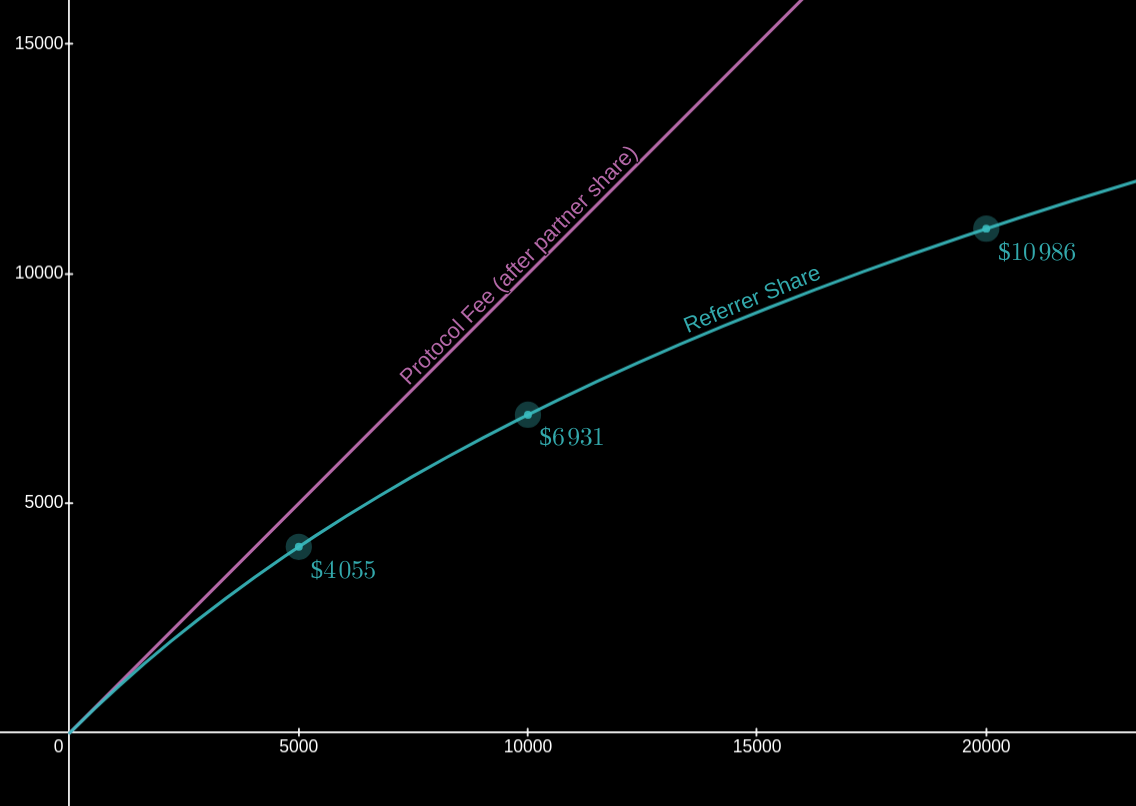
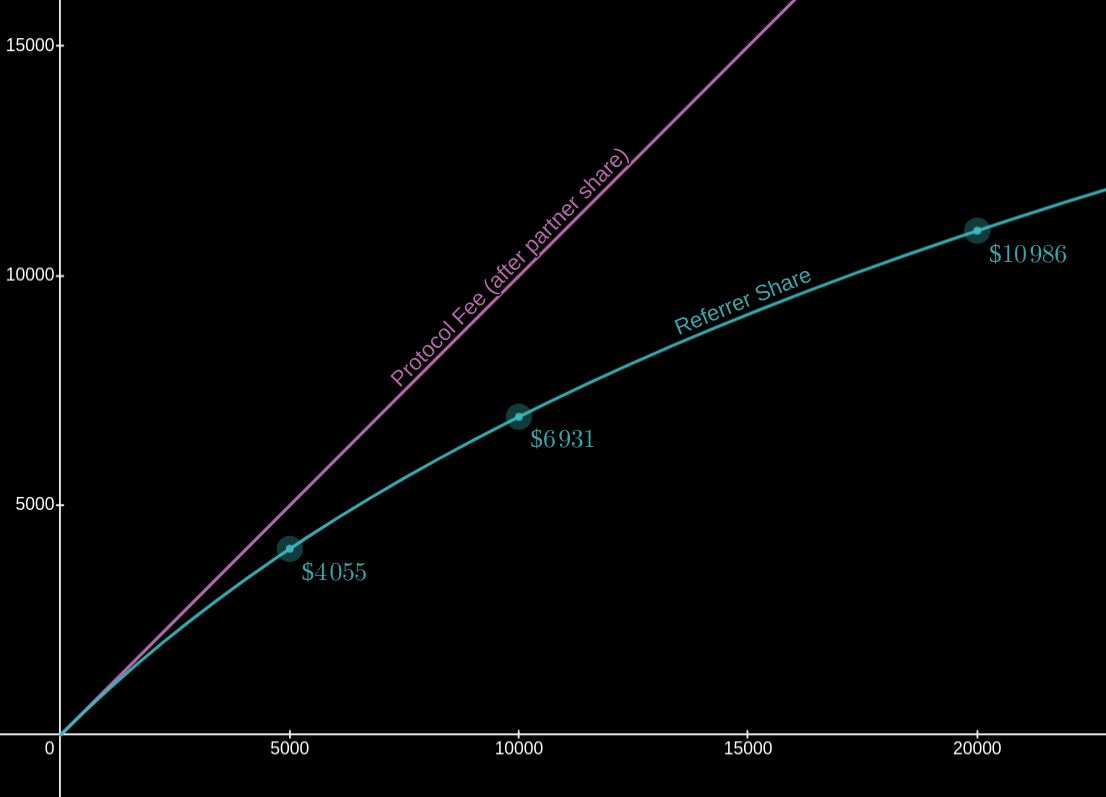
GITBOOK-227: change request with no subject merged in GitBook

diff --git a/why/README.md b/why/README.md
@@ -1,9 +1,9 @@
-# Why Derivable?
+# Why Derion?
 
-At the end of the day, what matters the most to Derivable is the experience of our users. At Derivable, we put user experience at the utmost importance and focus only on the benefits our users receive whilst using our product. We believe that Derivable provides some of the best features and benefits our users cannot find elsewhere.
+At the end of the day, what matters the most to Derion is the experience of our users. At Derion, we put user experience at the utmost importance and focus only on the benefits our users receive whilst using our product. We believe that Derion provides some of the best features and benefits our users cannot find elsewhere.
 
-Derivable offers various exclusive benefits for traders as a perpetual AMM DEX: no liquidation, higher upside with less downside, infinite liquidity, low fees, highly secure, and a fully on-chain open market. Trading perpetuals on Derivable should feel simple yet powerful.
+Derion offers various exclusive benefits for traders as a perpetual AMM DEX: no liquidation, higher upside with less downside, infinite liquidity, low fees, highly secure, and a fully on-chain open market. Trading perpetuals on Derion should feel simple yet powerful.
 
-For liquidity providers, Derivable guarantees a more attractive yield than any other protocol. Our market is optimally capital-efficient, allowing liquidity providers to earn the highest passive income while requiring minimal risk and capital.
+For liquidity providers, Derion guarantees a more attractive yield than any other protocol. Our market is optimally capital-efficient, allowing liquidity providers to earn the highest passive income while requiring minimal risk and capital.
 
-We also welcome other complicated market participants, such as market makers, capital ventures, or hedge funds, to participate in our product. It is our confident belief that our innovative technologies, as well as strategies, have myriads of use cases to be explored. Derivable is always excited to work on new, creative ideas that can be forged into practical applications and solutions; therefore, retail users are not our only target audience but also institution-grade funds.
+We also welcome other complicated market participants, such as market makers, capital ventures, or hedge funds, to participate in our product. It is our confident belief that our innovative technologies, as well as strategies, have myriads of use cases to be explored. Derion is always excited to work on new, creative ideas that can be forged into practical applications and solutions; therefore, retail users are not our only target audience but also institution-grade funds.

diff --git a/intro/leverage.md b/intro/leverage.md
@@ -2,7 +2,7 @@
 
 Leverage is one of the most useful tools in finance, especially in derivatives trading. When used wisely, leverage can enhance profitability, accelerate wealth growth, maximize opportunities, and optimize capital allocation. However, it is a double-edged sword that is incredibly hard to control. This is mainly because leverage traders are exposed to “liquidation risks”.
 
-<figure><img src="../.gitbook/assets/image (58).png" alt="" width="563"><figcaption><p>Linear Leverage</p></figcaption></figure>
+<figure><img src="../.gitbook/assets/image.png" alt="" width="563"><figcaption><p>Linear Leverage and Liquidation</p></figcaption></figure>
 
 Compared to holding $10 of ETH, borrowing $20 and opening a $30 Long 3x position will have 3 times more exposure to the ETH price but also to the liquidation risk. As the ETH price decreases, the balance decreases 3 times faster toward $0 while the loan is still $20, increasing the debt-to-balance rate to infinity, which is when the liquidation happens.
 

diff --git a/why/game-theory.md b/why/game-theory.md
@@ -2,5 +2,5 @@
 
 <mark style="color:yellow;">(Under Construction)</mark>
 
-According to our analytics, Derivable's compounding leverage model offers a true zero-summed game between traders and LPs, while the conventional linear leverage position model is actually unfair to traders. In the service provider role, the LPs should expect to benefit more to compensate for their capital risks; with a fairer game, the fee and interest calculation is much more deterministic and predictable.
+According to our analytics, Derion's compounding leverage model offers a true zero-summed game between traders and LPs, while the conventional linear leverage position model is actually unfair to traders. In the service provider role, the LPs should expect to benefit more to compensate for their capital risks; with a fairer game, the fee and interest calculation is much more deterministic and predictable.
 

diff --git a/why/liquidity-efficiency.md b/why/liquidity-efficiency.md
@@ -2,7 +2,7 @@
 
 <mark style="color:yellow;">(Under Construction)</mark>
 
-In conventional perpetual DEXes with server-based ADL mechanisms, the liquidity-to-position rate often has to be highly abundant to protect the exchange from unpredictable market volatility. With smooth deleveraging curves built into the payoff function, Derivable provides a much safer and more efficient liquidity provision environment.
+In conventional perpetual DEXes with server-based ADL mechanisms, the liquidity-to-position rate often has to be highly abundant to protect the exchange from unpredictable market volatility. With smooth deleveraging curves built into the payoff function, Derion provides a much safer and more efficient liquidity provision environment.
 
 <figure><img src="../.gitbook/assets/image (50).png" alt="" width="563"><figcaption></figcaption></figure>
 

diff --git a/protocol/oracle.md b/protocol/oracle.md
@@ -6,6 +6,6 @@ Uniswap v3 Oracle is chosen for its availability and composability. Any token pa
 
 Uniswap Oracle provides both TWAP and SPOT prices. Derivable's double price system is another novel mechanism for derivative pricing as the price prediction is crucial and any market latency can be exploited.
 
-<figure><img src="../.gitbook/assets/image (1) (1) (1).png" alt=""><figcaption><p>Double Price System</p></figcaption></figure>
+<figure><img src="../.gitbook/assets/image (1) (1) (1) (1).png" alt=""><figcaption><p>Double Price System</p></figcaption></figure>
 
 The double price system enforces the conversion rate to use the less beneficial result of the 2 prices. This system serves 2 purposes: (A) preventing price manipulation by arbitrageurs and (B) taking volatility fees for the Liquidity Provider in their unfavorable market.

diff --git a/protocol/features.md b/protocol/features.md
@@ -1,6 +1,6 @@
 # Features
 
-After recognizing the existing pain points that Derivatives DEXes are currently having, Derivable has developed multiple innovative technologies in an attempt to tackle those shortcomings.
+After recognizing the existing pain points that Derivatives DEXes are currently having, Derion has developed multiple innovative technologies in an attempt to tackle those shortcomings.
 
 * Power (compounding) Leverage instead of Linear Leverage: More potential upside with less downside, no liquidation risk.
 * Asymptotic Power Curve as Pricing Curve (see below): Enable infinite liquidity with no liquidation. Congested liquidation events are eliminated because there simply won’t be any liquidation!

diff --git a/tokenomics/launchpad.md b/tokenomics/launchpad.md
@@ -1,8 +1,8 @@
-# Launchpad
+# Launchpad Partnership
 
 The first partnership we are seeking is with Launchpads to integrate with [ifo.md](../apps/ifo.md "mention"). Our launchpad partners will directly receive a majority of our protocol fee. Anyone who contributes to a successful partnership will receive a Referrer Share from the protocol fee, after deducting the partner's share.
 
-<figure><img src="../.gitbook/assets/image.png" alt=""><figcaption></figcaption></figure>
+<figure><img src="../.gitbook/assets/image (1).png" alt=""><figcaption></figcaption></figure>
 
 Referrer share calculation from pool fee, after deducting the partner's share (for reference only):
 

diff --git a/protocol/README.md b/protocol/README.md
@@ -1,8 +1,8 @@
-# Protocol
+# Protocol Design
 
-Derivable Protocol is a set of smart contracts designed for the creation of leverage perpetual pools for any index value, with any leverage, and reserved with any ERC-20 token.
+Derion Protocol is a set of smart contracts designed for the creation of leverage perpetual pools for any index value, with any leverage, and reserved with any ERC-20 token.
 
-Derivable pools have the following properties:
+Derion pools have the following properties:
 
 * 3 sides: LONG, SHORT, and LIQUIDITY (LP) as 3 fungible tokens.
 * LONG and SHORT trace an index value from an external oracle (on-chain or off-chain).

diff --git a/protocol/pricing.md b/protocol/pricing.md
@@ -6,7 +6,7 @@ description: Asymptotic Power Curves
 
 <figure><img src="../.gitbook/assets/image (13).png" alt="" width="563"><figcaption></figcaption></figure>
 
-Asymptotic Power Curves is our innovative Pricing Curve design that makes the vision of Derivable feasible in the first place. Thanks to the Asymptotic Power Curves, Derivable is able to achieve:
+Asymptotic Power Curves is our innovative Pricing Curve design that makes the vision of Derion feasible in the first place. Thanks to the Asymptotic Power Curves, Derion is able to achieve:
 
 * NO liquidation at all;
 * Everlasting perpetual future market for all market circumstances;

diff --git a/SUMMARY.md b/SUMMARY.md
@@ -9,7 +9,7 @@
   * [Trader Risks](existing-challenges/trader-risks.md)
   * [Exchange Risks](existing-challenges/exchange-risks.md)
   * [Perpetuals AMM](existing-challenges/perpetuals-amm.md)
-* [Why Derivable?](why/README.md)
+* [Why Derion?](why/README.md)
   * [Game Theory](why/game-theory.md)
   * [Trading Experience](why/trading-experience.md)
   * [Liquidity Efficiency](why/liquidity-efficiency.md)
